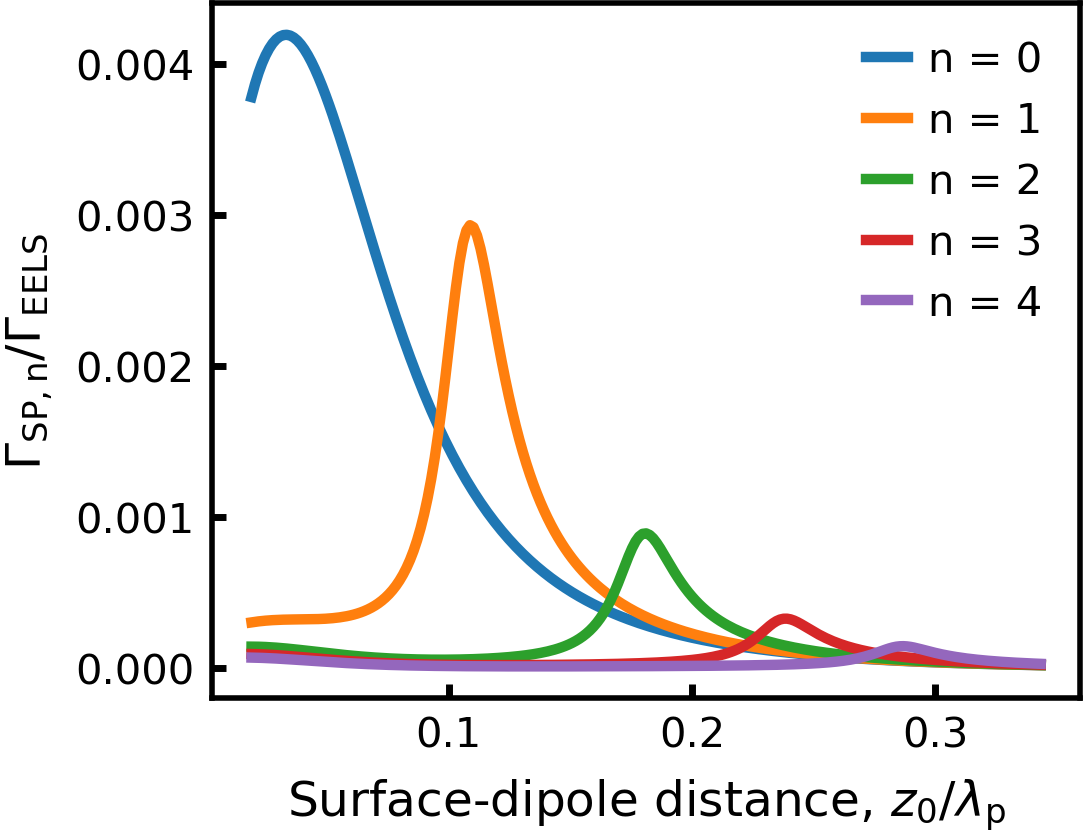
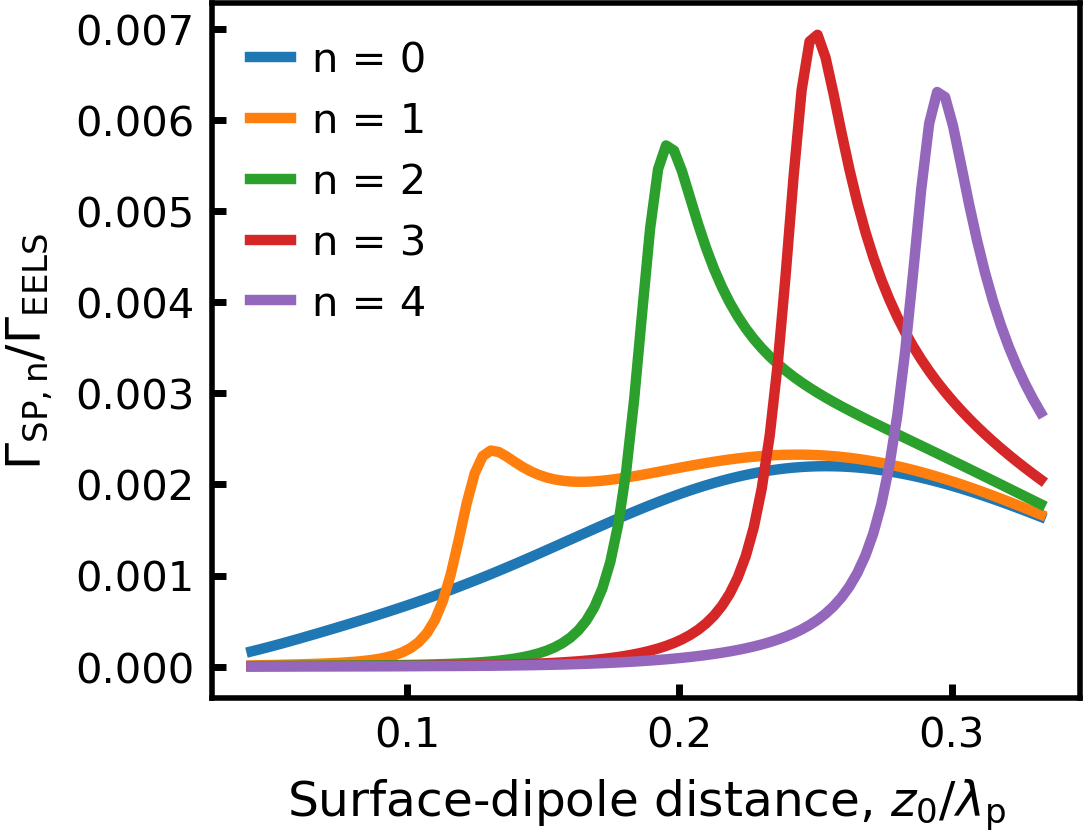
update from icfo dell

diff --git a/hBn-disks-v2/infinite_dipoles/plot_decay_rate_theta_n_opt_zp_fix_zp.py b/hBn-disks-v2/infinite_dipoles/plot_decay_rate_theta_n_opt_zp_fix_zp.py
@@ -70,13 +70,13 @@ d_thickness_disk_nano = 0.9
 
 labely = r'$\Gamma_{\rm SP, n}/\Gamma_{\rm EELS}$'
 #labely = r'Emission probability (eV$^{-1}$)'
-labelp = r'_dfilm%.1fnm_ddisk%.1fnm_v%i' %(d_nano_film,d_thickness_disk_nano,int_v)
+labelp = r'_dfilm%.2fnm_ddisk%.2fnm_v%i' %(d_nano_film,d_thickness_disk_nano,int_v)
 tabla = np.loadtxt('zp_optimum_for_decay_rate_hBN_disks' + labelp + '.txt', delimiter='\t', skiprows=1)
 tabla = np.transpose(tabla)
 [listx,listy,listz] = tabla
 
 zp_nano = listy[-20]
-zp_nano = 3.5
+#zp_nano = 3.5
 #zp_nano = 50
 #zp_nano = listy[-20]
 omegac0_1 = np.max(listx)/(c*hb)
@@ -90,8 +90,8 @@ a_min = np.real(lambda_SP_1)*Nmax/(int_v - 1)
 a_max = np.real(lambda_SP_2)*Nmax/(int_v + 1)
 
 a = np.mean([a_min,a_max])
-a = 0.001*1e-3
-a = 120*1e-3
+#a = 0.001*1e-3
+#a = 120*1e-3
 #a = 5*1e-3
 
 #a = 150*1e-3
@@ -123,7 +123,7 @@ labelp = r'_a%.2fnm_zp%.2fnm_d%.2fnm' %(a*1e3,zp_nano,d_nano_film)
 f1 = interp1d(listx, listy)
 f2 = interp1d(listx, listz)
 
-N = 200
+N = 100
 lim1,lim2 = 18,-60
 lim1,lim2 = 0,-58
 #lim1,lim2 = 14,-1
